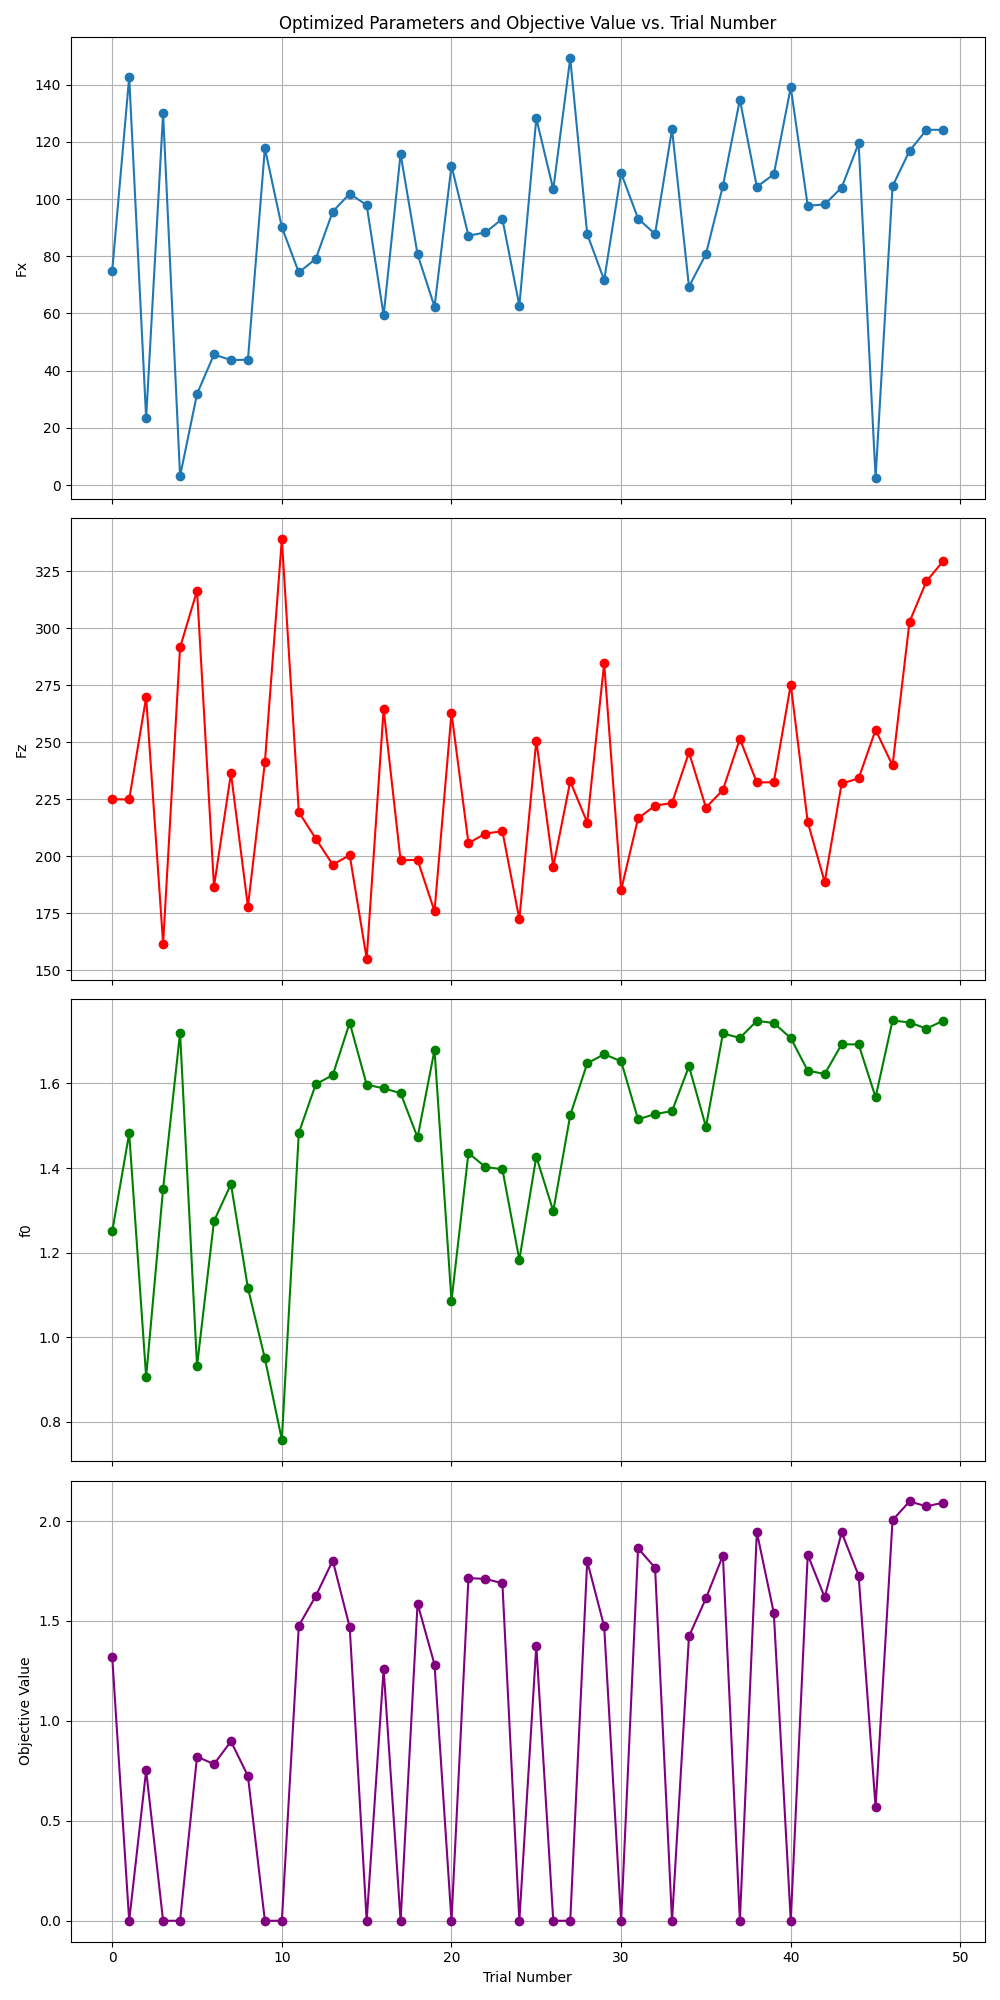
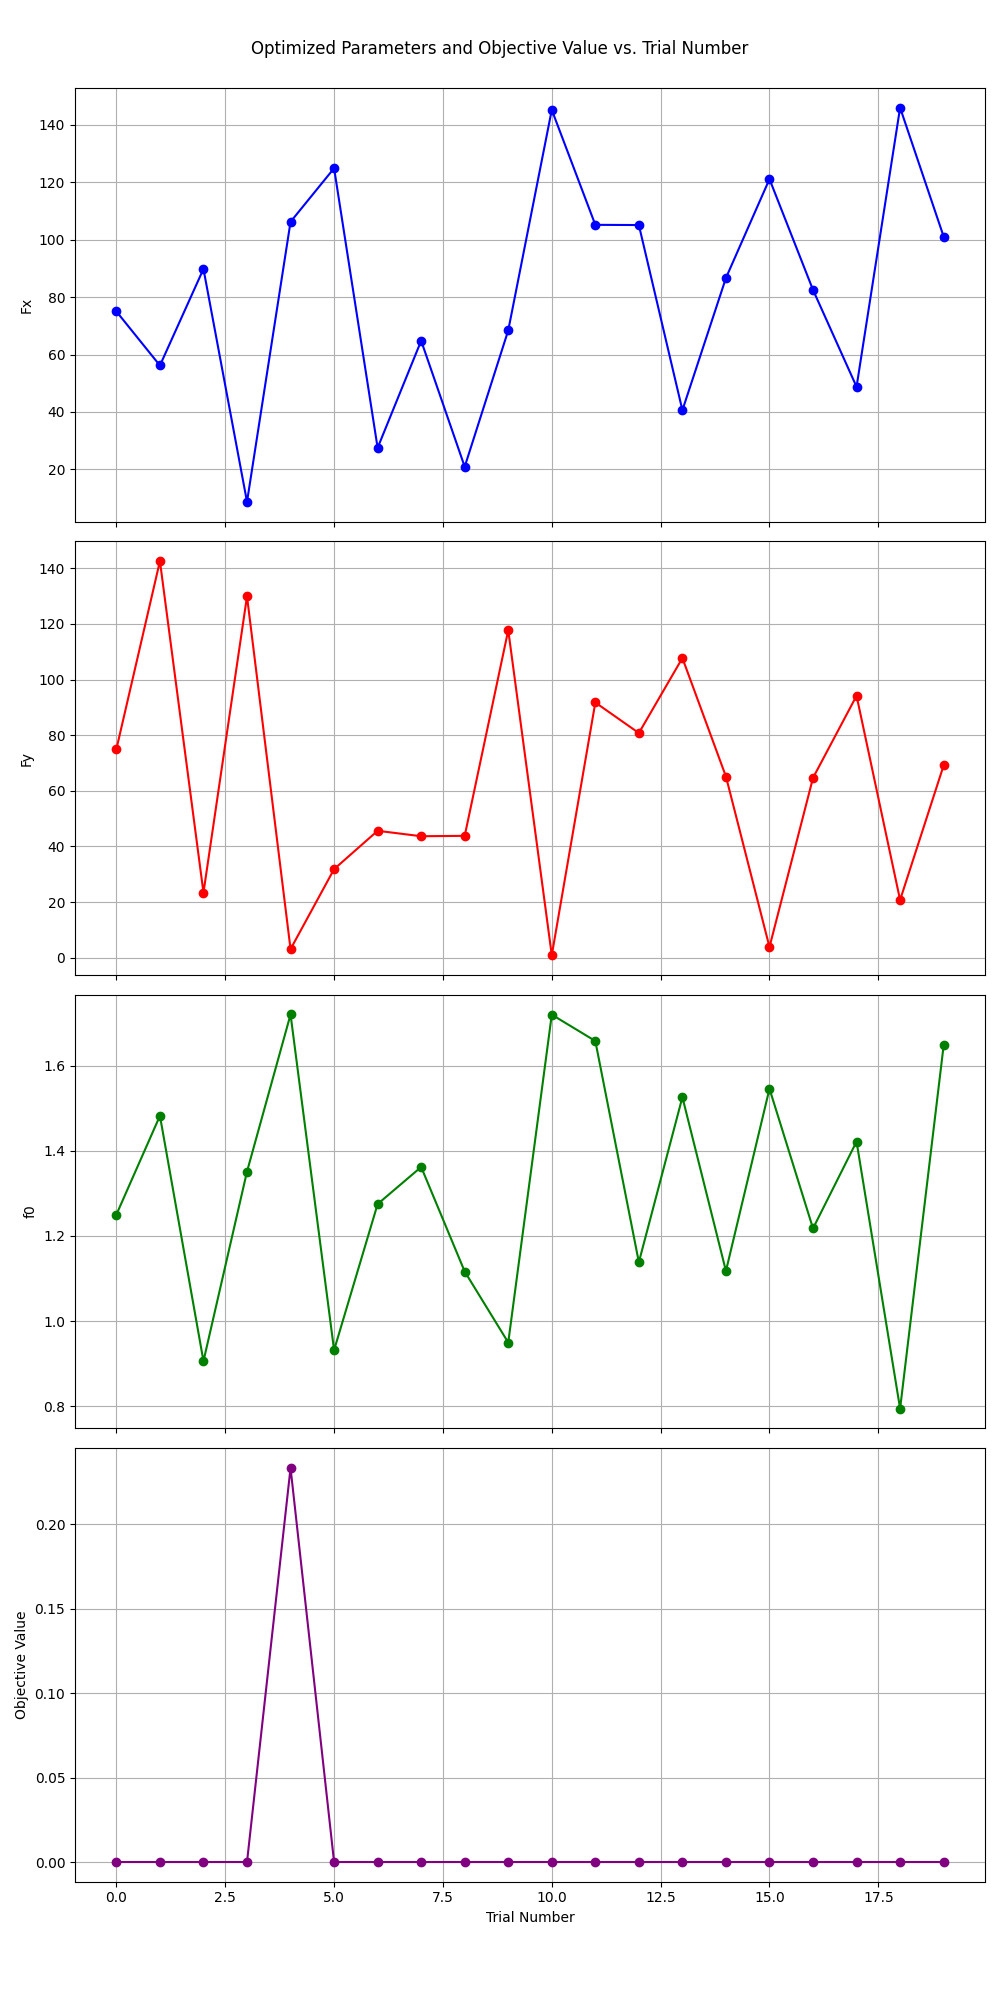
three kinds

diff --git a/lr_mp1_group_21/quadruped_jump_opt.py b/lr_mp1_group_21/quadruped_jump_opt.py
@@ -40,16 +40,20 @@ def quadruped_jump_optimization(objective_choice: str = "height"):
         direction="maximize",
     )
 
-    # To set initial parameters for the first trial, you can enqueue a trial like this before calling study.optimize():
-    initial_params = {
-        "Fz": 225.0, "Fx": 75.0,
-        "f0": 1.25,
-    }
-    study.enqueue_trial(initial_params)
+    # To set initial parameters for the first trial, you can enqueue a trial like this
+    if objective_choice == "distance":
+        initial_params = {"Fx": 75.0, "Fz": 225.0, "f0": 1.25}
+    elif objective_choice == "lateral_distance":
+        initial_params = {"Fy": 75.0, "Fz": 225.0, "f0": 1.25}
+    elif objective_choice == "twist":
+        initial_params = {"Fx": 75.0, "Fy": 75.0, "f0": 1.25}
+    
+    if 'initial_params' in locals():
+        study.enqueue_trial(initial_params)
 
     # Run the optimization
     # You can change the number of trials here (the maximum number of trials is 50)
-    study.optimize(objective, n_trials=50, n_jobs=1)
+    study.optimize(objective, n_trials=20, n_jobs=1)
 
     # Close the simulation
     simulator.close()
@@ -61,22 +65,6 @@ def quadruped_jump_optimization(objective_choice: str = "height"):
     print("Last trial value:", last_trial.value)
     print("Last trial params:", last_trial.params)
 
-    # Plot results if objective is first_jump_distance
-    if objective_choice == "first_jump_distance":
-        trials = study.get_trials()
-        successful_trials = [t for t in trials if t.value is not None]
-        if successful_trials:
-            import matplotlib.pyplot as plt
-            trial_numbers = [t.number for t in successful_trials]
-            distances = [t.value for t in successful_trials]
-            plt.figure(figsize=(10, 6))
-            plt.plot(trial_numbers, distances, marker='o', linestyle='-')
-            plt.xlabel("Trial Number")
-            plt.ylabel("Forward Jump Distance (m)")
-            plt.title("Forward Jump Distance vs. Trial Number")
-            plt.grid(True)
-            plt.savefig("jump_distance_vs_trials.png")
-            plt.close()
 
     # Plot optimized parameters vs. trial number
     trials = study.get_trials()
@@ -84,57 +72,41 @@ def quadruped_jump_optimization(objective_choice: str = "height"):
     if successful_trials:
         import matplotlib.pyplot as plt
         trial_numbers = [t.number for t in successful_trials]
-        
-        # Extract parameters and objective values
-        fx_values = [t.params["Fx"] for t in successful_trials]
-        fz_values = [t.params["Fz"] for t in successful_trials]
-        f0_values = [t.params["f0"] for t in successful_trials]
         objective_values = [t.value for t in successful_trials]
 
-        fig, axs = plt.subplots(4, 1, figsize=(10, 20), sharex=True)
+        # The parameters that were optimized
+        optimized_params = list(successful_trials[0].params.keys())
+        num_params = len(optimized_params)
+        
+        fig, axs = plt.subplots(num_params + 1, 1, figsize=(10, 5 * (num_params + 1)), sharex=True)
+        fig.suptitle("Optimized Parameters and Objective Value vs. Trial Number")
 
-        # Plot Fx
-        axs[0].plot(trial_numbers, fx_values, marker='o', linestyle='-')
-        axs[0].set_ylabel("Fx")
-        axs[0].set_title("Optimized Parameters and Objective Value vs. Trial Number")
-        axs[0].grid(True)
-
-        # Plot Fz
-        axs[1].plot(trial_numbers, fz_values, marker='o', linestyle='-', color='r')
-        axs[1].set_ylabel("Fz")
-        axs[1].grid(True)
-
-        # Plot f0
-        axs[2].plot(trial_numbers, f0_values, marker='o', linestyle='-', color='g')
-        axs[2].set_ylabel("f0")
-        axs[2].grid(True)
+        # Plot optimized parameters
+        colors = ['b', 'r', 'g', 'c', 'm', 'y', 'k']
+        for i, param_name in enumerate(optimized_params):
+            param_values = [t.params[param_name] for t in successful_trials]
+            axs[i].plot(trial_numbers, param_values, marker='o', linestyle='-', color=colors[i % len(colors)])
+            axs[i].set_ylabel(param_name)
+            axs[i].grid(True)
 
         # Plot Objective Value
-        axs[3].plot(trial_numbers, objective_values, marker='o', linestyle='-', color='purple')
-        axs[3].set_ylabel("Objective Value")
-        axs[3].set_xlabel("Trial Number")
-        axs[3].grid(True)
+        axs[num_params].plot(trial_numbers, objective_values, marker='o', linestyle='-', color='purple')
+        axs[num_params].set_ylabel("Objective Value")
+        axs[num_params].set_xlabel("Trial Number")
+        axs[num_params].grid(True)
 
-        plt.tight_layout()
+        plt.tight_layout(rect=[0, 0.03, 1, 0.98]) # Adjust layout to make room for suptitle
         plt.savefig("optimized_params_vs_trials.png")
         plt.close()
 
-    # Replay and record the best and last jumps
+    # Replay and record the best jump
     print("\nReplaying and recording the best jump...")
     best_video_path = "/home/dzhou20/epfl/legged_robots/epfl-legged-robot-project-2025/lr_mp1_group_21/videos/best_jump.mp4"
     best_replay_options = SimulationOptions(render=True, on_rack=False, tracking_camera=True, record_video=best_video_path)
     best_replay_simulator = QuadSimulator(best_replay_options)
-    replay_jump(best_replay_simulator, study.best_params)
+    replay_jump(best_replay_simulator, study.best_params, objective_choice)
     best_replay_simulator.close()
     print(f"Best jump video saved to {best_video_path}")
-
-    print("\nReplaying and recording the last jump...")
-    last_video_path = "/home/dzhou20/epfl/legged_robots/epfl-legged-robot-project-2025/lr_mp1_group_21/videos/last_jump.mp4"
-    last_replay_options = SimulationOptions(render=True, on_rack=False, tracking_camera=True, record_video=last_video_path)
-    last_replay_simulator = QuadSimulator(last_replay_options)
-    replay_jump(last_replay_simulator, last_trial.params)
-    last_replay_simulator.close()
-    print(f"Last jump video saved to {last_video_path}")
 
 
     # OPTIONAL: add additional functions here (e.g., plotting, recording to file)
@@ -147,11 +119,24 @@ def quadruped_jump_optimization(objective_choice: str = "height"):
 
 def evaluate_jumping(trial: Trial, simulator: QuadSimulator, objective_choice: str) -> float:
     # the number of four legs: FR(Front Right), FL(Front Left), RR(Rear Right), RL(Rear Left)
-    # Parameters for all legs
-    Fz = trial.suggest_float("Fz", 150, 350)
-    Fx = trial.suggest_float("Fx", 0, 150)
-    Fy = 0.0  # To avoid sideways movement, set Fy to 0
-    f0 = trial.suggest_float("f0", 1, 1.75)
+    # Parameters are now conditional on the objective
+    if objective_choice == "distance":
+        Fx = trial.suggest_float("Fx", 0, 150)
+        Fz = trial.suggest_float("Fz", 150, 350)
+        f0 = trial.suggest_float("f0", 0.75, 1.75)
+        Fy = 0.0
+    elif objective_choice == "lateral_distance":
+        Fy = trial.suggest_float("Fy", 0, 150)
+        Fz = trial.suggest_float("Fz", 150, 350)
+        f0 = trial.suggest_float("f0", 0.75, 1.75)
+        Fx = 0.0
+    elif objective_choice == "twist":
+        Fx = trial.suggest_float("Fx", 0, 150)
+        Fy = trial.suggest_float("Fy", 0, 150)
+        f0 = trial.suggest_float("f0", 0.75, 1.75)
+        Fz = 250.0  # Using a fixed, balanced value for Fz
+    else:
+        raise ValueError(f"Invalid objective choice for parameter suggestion: {objective_choice}")
     
     f1 = 0.5 # This seems to be a constant
 
@@ -162,10 +147,7 @@ def evaluate_jumping(trial: Trial, simulator: QuadSimulator, objective_choice: s
     sim_options = simulator.options
 
     # Determine number of jumps to simulate
-    if objective_choice == "first_jump_distance":
-        n_jumps = 1  # Simulate for long enough to capture one full jump
-    else:
-        n_jumps = 5 # Feel free to change this number
+    n_jumps = 5 # Feel free to change this number
     
     # Using average of f0 for jump duration calculation
     f0_avg = f0
@@ -216,99 +198,84 @@ def evaluate_jumping(trial: Trial, simulator: QuadSimulator, objective_choice: s
         roll = base_row_pitch_yaw_history[:, 0]  
         pitch = base_row_pitch_yaw_history[:, 1]
         for roll_angle in roll:
-            if abs(roll_angle) > np.pi/2:  # 30 degrees in radians
+            if abs(roll_angle) > np.pi/3:  # 30 degrees in radians
                 return -100.0  # Large penalty for excessive roll
         for pitch_angle in pitch:
-            if abs(pitch_angle) > np.pi/2:  # 30 degrees in radians
+            if abs(pitch_angle) > np.pi/3:  # 30 degrees in radians
                 return -100.0  # Large penalty for excessive pitch
         return 0.0  # No penalty if within limits
         
-
-    def get_max_height(history: np.ndarray) -> float:
-        """Get the maximum height reached by the base during the simulation."""
-        max_height = np.max(history[:, 2])  # Z coordinate is the height
-        return max_height
 
     def get_max_distance(history: np.ndarray) -> float:
         """Get the maximum distance covered by the base during the simulation."""
         initial_pos = history[0]
         final_pos = history[-1]
         max_dist_x = final_pos[0] - initial_pos[0]
-        max_dist_y = final_pos[1] - initial_pos[1]
-        max_dist_z = final_pos[2] - initial_pos[2]
-        max_dist = (max_dist_x)
         if penalty_roll_pitch(base_row_pitch_yaw_history) < 0:
             return 0.0
-        return max_dist
+        return max_dist_x
 
-    def get_first_jump_distance(history: np.ndarray, contacts_hist: list) -> float:
-        """
-        Calculates distance from start to the first stable landing, ensuring a jump occurred.
-        """
-        # Find the first index of an air phase (a jump)
-        first_air_phase_idx = -1
-        for i, contacts in enumerate(contacts_hist):
-            if not np.any(contacts):
-                first_air_phase_idx = i
-                print("contacts:", contacts)
-                break
-        print("first_air_phase_idx:", first_air_phase_idx)
-
-        if first_air_phase_idx == -1:
-            print("Debug: No air phase detected.")
-            return 0.0 # No jump occurred
-
-        # Find the first stable landing (all four feet on ground) after the jump started
-        stable_landing_idx = -1
-        for i in range(first_air_phase_idx, len(contacts_hist)):
-            if all(contacts_hist[i]):
-                stable_landing_idx = i
-                break
-        
-        if stable_landing_idx == -1:
-            print("Debug: No stable four-foot landing detected after air phase.")
+    def get_max_lateral_distance(history: np.ndarray) -> float:
+        """Get the maximum lateral distance covered by the base during the simulation."""
+        initial_pos = history[0]
+        final_pos = history[-1]
+        max_dist_y = final_pos[1] - initial_pos[1]
+        if penalty_roll_pitch(base_row_pitch_yaw_history) < 0:
             return 0.0
+        return abs(max_dist_y)
 
-        start_pos = history[0]
-        landing_pos = history[stable_landing_idx]
+    def get_max_twist(rpy_history: np.ndarray) -> float:
+        """Get the maximum twist (yaw change) of the base during the simulation."""
+        initial_orientation = rpy_history[0]
+        final_orientation = rpy_history[-1]
+        yaw_initial = initial_orientation[2]
+        yaw_final = final_orientation[2]
+        if penalty_roll_pitch(base_row_pitch_yaw_history) < 0:
+            return 0.0
+        return abs(yaw_final - yaw_initial)
 
-        distance_x = landing_pos[0] - start_pos[0]
-        distance_y = landing_pos[1] - start_pos[1]
+    
 
-        print(f"Debug: Start Pos: {start_pos}, Landing Pos: {landing_pos}")
-        print(f"Debug: Landing Index: {stable_landing_idx}")
-        print(f"Debug: X Distance: {distance_x:.4f} m, Y Distance: {distance_y:.4f} m")
-        
-        # The optimization objective is the forward distance
-        return distance_x
-
-    if objective_choice == "height":
-        objective_value = get_max_height(base_position_history)
-        print(f"Trial {trial.number}: max height = {objective_value:.4f} m")
-    elif objective_choice == "distance":
+    if objective_choice == "distance":
         objective_value = get_max_distance(base_position_history)
         print(f"Trial {trial.number}: max distance = {objective_value:.4f} m")
-    elif objective_choice == "first_jump_distance":
-        objective_value = get_first_jump_distance(base_position_history, contact_history)
-        print(f"Trial {trial.number}: first jump distance = {objective_value:.4f} m")
+    elif objective_choice == "lateral_distance":
+        objective_value = get_max_lateral_distance(base_position_history)
+        print(f"Trial {trial.number}: max lateral distance = {objective_value:.4f} m")
+    elif objective_choice == "twist":
+        objective_value = get_max_twist(base_row_pitch_yaw_history)
+        print(f"Trial {trial.number}: max twist = {objective_value:.4f} rad")
     else:
         raise ValueError(f"Invalid objective choice: {objective_choice}")
-    
+
     return objective_value
 
 
-def replay_jump(simulator: QuadSimulator, params: dict):
+def replay_jump(simulator: QuadSimulator, params: dict, objective_choice: str):
     """
     Simulates a jump with the given parameters.
     This function is used to replay the best jump found during optimization.
     """
-    # Extract parameters
-    Fz = params["Fz"]
-    Fx = params["Fx"]
-    Fy = 0.0  # To avoid sideways movement, set Fy to 0
-    f0 = params["f0"]
-    
-    f1 = 0.5 # This seems to be a constant
+    # Extract parameters based on objective
+    if objective_choice == "distance":
+        Fx = params["Fx"]
+        Fz = params["Fz"]
+        f0 = params["f0"]
+        Fy = 0.0
+    elif objective_choice == "lateral_distance":
+        Fy = params["Fy"]
+        Fz = params["Fz"]
+        f0 = params["f0"]
+        Fx = 0.0
+    elif objective_choice == "twist":
+        Fx = params["Fx"]
+        Fy = params["Fy"]
+        f0 = params["f0"]
+        Fz = 225.0
+    else:
+        raise ValueError(f"Invalid objective choice for replay: {objective_choice}")
+
+    f1 = 0.5  # This seems to be a constant
 
     # Reset the simulation
     simulator.reset()
@@ -360,9 +327,9 @@ if __name__ == "__main__":
     parser.add_argument(
         "--objective",
         type=str,
-        default="height",
-        choices=["height", "distance", "first_jump_distance"],
-        help="Objective function to optimize: 'height', 'distance', or 'first_jump_distance'.",
+        default="distance",
+        choices=["distance", "lateral_distance", "twist"],
+        help="Objective function to optimize: 'distance', 'lateral_distance', or 'twist'.",
     )
     args = parser.parse_args()
 
